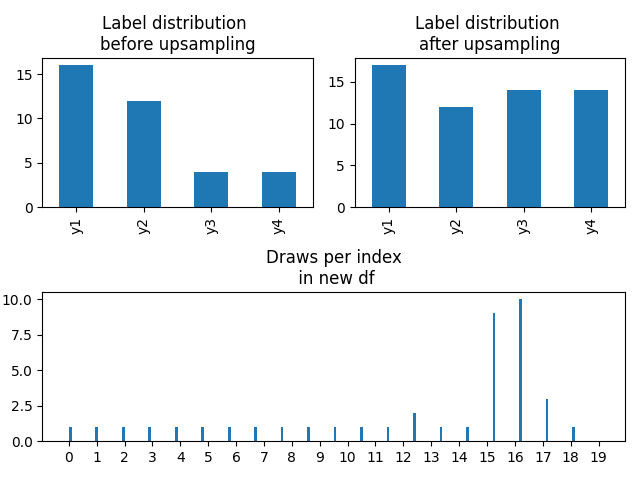
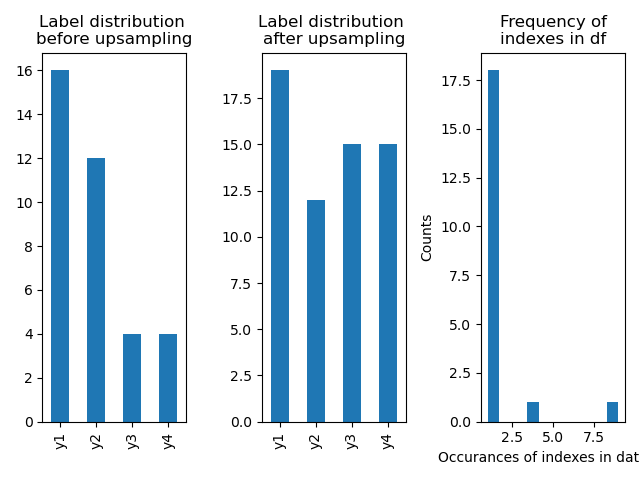
Improve plots and README

diff --git a/multilabel_oversampling/multilabel_oversampling.py b/multilabel_oversampling/multilabel_oversampling.py
@@ -131,6 +131,7 @@ class MultilabelOversampler:
                 plt.scatter(i + idx*0.01, s)
         plt.xlabel('Iters')#, fontsize=18)
         plt.ylabel('Std')#, fontsize=16)
+        plt.title("All standard deviations per iteration")
         return plt
 
     def plot_results(self):
@@ -172,8 +173,8 @@ class MultilabelOversampler:
             df_new = self.df_new
         x = list(collections.Counter(list(df_new.index)).values())
         plt.hist(x, bins=max(x)+1, rwidth=.9)
-        plt.title("Frequency of indexes in df")
-        plt.xlabel('Frequency in dataset')
+        plt.title("Frequency of\nindexes in df")
+        plt.xlabel('Occurances of indexes in dataset')
         plt.ylabel('Counts')
         return plt
 

diff --git a/setup.py b/setup.py
@@ -18,6 +18,7 @@ setuptools.setup(
     long_description_content_type="text/markdown",
     url="https://github.com/phiyodr/multilabel-oversampling",
     classifiers=[
+    	"Topic :: Scientific/Engineering :: Artificial Intelligence",
         "Programming Language :: Python :: 3",
     ],
     packages=setuptools.find_packages(),

diff --git a/multilabel_oversampling/__init__.py b/multilabel_oversampling/__init__.py
@@ -1,3 +1,3 @@
-__version__ = "0.1.2"
+__version__ = "0.1.3"
 
 from .multilabel_oversampling import *

diff --git a/README.md b/README.md
@@ -1,4 +1,4 @@
-# Multilabel Oversampling
+# Multilabel Oversampling :sunflower:
 
 **Many algorithms for imbalanced data support binary and multiclass classification only.**
 **This approach is made for multi-label classification (aka multi-target classification).**
@@ -10,7 +10,7 @@
 * Multilabel dataset (as `pandas.DataFrame`) with imbalanced data
 * Calculate counts per class and then calculate the standard deviation (std) of the count values
 * Do for `number_of_adds` times the following: 
-* Randomly draw a sample from your data and calculate new std  
+	* Randomly draw a sample from your data and calculate new std  
 	* If new std reduces, add sample to your dataset
 	* If not, draw another sample (to this up to `number_of_tries` times)
 * A new df is returned. 
@@ -19,15 +19,24 @@
 ## :arrow_right: Usage
 
 ```python
-from multilabel_oversampling import multilabel_oversampling as mo
+import multilabel_oversampling as mo
 
-df = mo.create_fake_data(size=1, seed=3)
+mo.seed_everything(20)
+df = mo.create_fake_data(size=1) # difficult fake dataset with very high dependency of y1 and y2
 ml_oversampler = mo.MultilabelOversampler(number_of_adds=100, number_of_tries=100)
-df_new, plot_at = ml_oversampler.fit(df)
-#> Iteration:  20%|██████                        | 20/100 [00:00<00:00, 111.68it/s]
-#> No improvement after 100 tries in iter 20.
+df_new = ml_oversampler.fit(df)
+#>Start the upsampling process.
+#>Iteration:  11%|████████████████                                        | 11/100 [00:00<00:01, 48.43it/s]
+#>Iter 11: No improvement after 100 tries.
+#>Sampling done.
+#>
+#>Dataset size original: 20; Upsampled dataset size: 31
+#>Original target distribution:  {'y1': 16, 'y2': 12, 'y3': 4, 'y4': 4}
+#>Upsampled target distribution: {'y1': 19, 'y2': 12, 'y3': 15, 'y4': 15}
+
+ml_oversampler.plot_all_tries()
 ```
-![Plot from df_new = ml_oversampler.fit(df)](assets/plot.png)
+![Plot from ml_oversampler.plot_all_tries()](assets/plot_all_tries.png)
 
 ```python
 ml_oversampler.plot_results()
@@ -41,72 +50,63 @@ ml_oversampler.plot_results()
 
 # Original DataFrame
 print(df)
-#>     y1  y2  y3  y4           x
-#> 0    1   1   0   0   img_0.jpg
-#> 1    1   1   1   0   img_1.jpg
-#> 2    1   1   1   0   img_2.jpg
-#> 3    1   1   0   0   img_3.jpg
-#> 4    1   1   0   0   img_4.jpg
-#> 5    1   1   0   1   img_5.jpg
-#> 6    1   1   0   0   img_6.jpg
-#> 7    1   1   0   0   img_7.jpg
-#> 8    1   1   0   0   img_8.jpg
-#> 9    1   1   0   0   img_9.jpg
-#> 10   1   1   0   0  img_10.jpg
-#> 11   1   1   0   0  img_11.jpg
-#> 12   1   0   0   1  img_12.jpg
-#> 13   1   0   0   1  img_13.jpg
-#> 14   1   0   0   0  img_14.jpg
-#> 15   1   0   0   0  img_15.jpg
-#> 16   0   0   1   0  img_16.jpg
-#> 17   0   0   0   1  img_17.jpg
-#> 18   0   0   1   0  img_18.jpg
-#> 19   0   0   0   0  img_19.jpg
+#>    y1  y2  y3  y4           x
+#>0    1   1   0   0   img_0.jpg
+#>1    1   1   0   0   img_1.jpg
+#>2    1   1   0   1   img_2.jpg
+#>3    1   1   0   0   img_3.jpg
+#>4    1   1   1   0   img_4.jpg
+#>5    1   1   0   0   img_5.jpg
+#>6    1   1   0   0   img_6.jpg
+#>7    1   1   0   0   img_7.jpg
+#>8    1   1   0   1   img_8.jpg
+#>9    1   1   0   0   img_9.jpg
+#>10   1   1   0   0  img_10.jpg
+#>11   1   1   0   0  img_11.jpg
+#>12   1   0   1   0  img_12.jpg
+#>13   1   0   1   1  img_13.jpg
+#>14   1   0   0   0  img_14.jpg
+#>15   1   0   0   0  img_15.jpg
+#>16   0   0   0   0  img_16.jpg
+#>17   0   0   0   0  img_17.jpg
+#>18   0   0   0   0  img_18.jpg
+#>19   0   0   1   1  img_19.jpg
+
 
 # New DataFrame after upsampling
 print(df_new)
-#>     y1  y2  y3  y4           x
-#> 0    1   1   0   0   img_0.jpg
-#> 1    1   1   1   0   img_1.jpg
-#> 2    1   1   1   0   img_2.jpg
-#> 3    1   1   0   0   img_3.jpg
-#> 4    1   1   0   0   img_4.jpg
-#> 5    1   1   0   1   img_5.jpg
-#> 6    1   1   0   0   img_6.jpg
-#> 7    1   1   0   0   img_7.jpg
-#> 8    1   1   0   0   img_8.jpg
-#> 9    1   1   0   0   img_9.jpg
-#> 10   1   1   0   0  img_10.jpg
-#> 11   1   1   0   0  img_11.jpg
-#> 12   1   0   0   1  img_12.jpg
-#> 13   1   0   0   1  img_13.jpg
-#> 14   1   0   0   0  img_14.jpg
-#> 15   1   0   0   0  img_15.jpg
-#> 16   0   0   1   0  img_16.jpg
-#> 17   0   0   0   1  img_17.jpg
-#> 18   0   0   1   0  img_18.jpg
-#> 19   0   0   0   0  img_19.jpg
-#> 17   0   0   0   1  img_17.jpg
-#> 16   0   0   1   0  img_16.jpg
-#> 16   0   0   1   0  img_16.jpg
-#> 16   0   0   1   0  img_16.jpg
-#> 16   0   0   1   0  img_16.jpg
-#> 16   0   0   1   0  img_16.jpg
-#> 16   0   0   1   0  img_16.jpg
-#> 18   0   0   1   0  img_18.jpg
-#> 13   1   0   0   1  img_13.jpg
-#> 18   0   0   1   0  img_18.jpg
-#> 17   0   0   0   1  img_17.jpg
-#> 17   0   0   0   1  img_17.jpg
-#> 17   0   0   0   1  img_17.jpg
-#> 16   0   0   1   0  img_16.jpg
-#> 17   0   0   0   1  img_17.jpg
-#> 17   0   0   0   1  img_17.jpg
-#> 17   0   0   0   1  img_17.jpg
-#> 16   0   0   1   0  img_16.jpg
-#> 17   0   0   0   1  img_17.jpg
-#> 17   0   0   0   1  img_17.jpg
-
+#>    y1  y2  y3  y4           x
+#>0    1   1   0   0   img_0.jpg
+#>1    1   1   0   0   img_1.jpg
+#>2    1   1   0   1   img_2.jpg
+#>3    1   1   0   0   img_3.jpg
+#>4    1   1   1   0   img_4.jpg
+#>5    1   1   0   0   img_5.jpg
+#>6    1   1   0   0   img_6.jpg
+#>7    1   1   0   0   img_7.jpg
+#>8    1   1   0   1   img_8.jpg
+#>9    1   1   0   0   img_9.jpg
+#>10   1   1   0   0  img_10.jpg
+#>11   1   1   0   0  img_11.jpg
+#>12   1   0   1   0  img_12.jpg
+#>13   1   0   1   1  img_13.jpg
+#>14   1   0   0   0  img_14.jpg
+#>15   1   0   0   0  img_15.jpg
+#>16   0   0   0   0  img_16.jpg
+#>17   0   0   0   0  img_17.jpg
+#>18   0   0   0   0  img_18.jpg
+#>19   0   0   1   1  img_19.jpg
+#>19   0   0   1   1  img_19.jpg
+#>19   0   0   1   1  img_19.jpg
+#>13   1   0   1   1  img_13.jpg
+#>13   1   0   1   1  img_13.jpg
+#>13   1   0   1   1  img_13.jpg
+#>19   0   0   1   1  img_19.jpg
+#>19   0   0   1   1  img_19.jpg
+#>19   0   0   1   1  img_19.jpg
+#>19   0   0   1   1  img_19.jpg
+#>19   0   0   1   1  img_19.jpg
+#>19   0   0   1   1  img_19.jpg
 ```
 
 
@@ -117,6 +117,13 @@ print(df_new)
 ```bash
 pip install git+https://github.com/phiyodr/multilabel-oversampling
 ```
+
+* Install from PyPI
+
+```bash
+pip install multilabel-oversampling
+```
+
 
 
 ## :construction_worker: Future work
